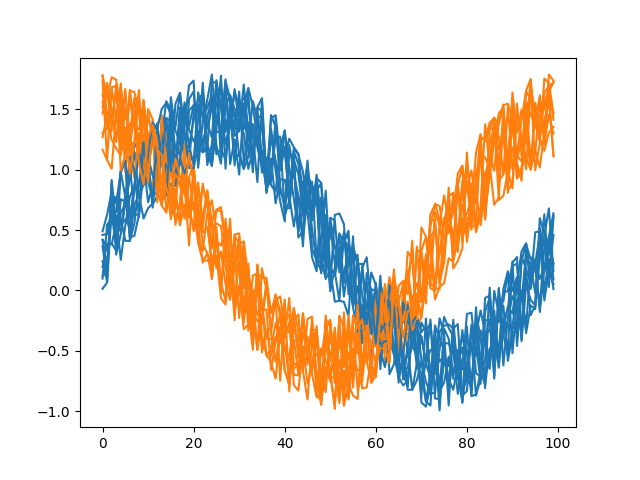
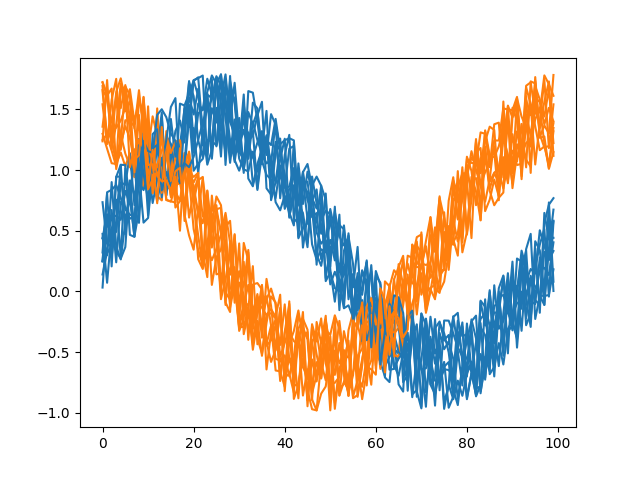
Deterministic figures in examples

diff --git a/examples/GroupedSeriesParade.py b/examples/GroupedSeriesParade.py
@@ -4,6 +4,8 @@ import os
 import matplotlib.pyplot as plt
 import plotszoo
 
+np.random.seed(0)
+
 num_series = 10
 samples = 100
 noise_level = 0.8

diff --git a/examples/SeriesParade.py b/examples/SeriesParade.py
@@ -4,6 +4,8 @@ import os
 import matplotlib.pyplot as plt
 import plotszoo
 
+np.random.seed(0)
+
 num_series = 10
 samples = 100
 noise_level = 0.8
